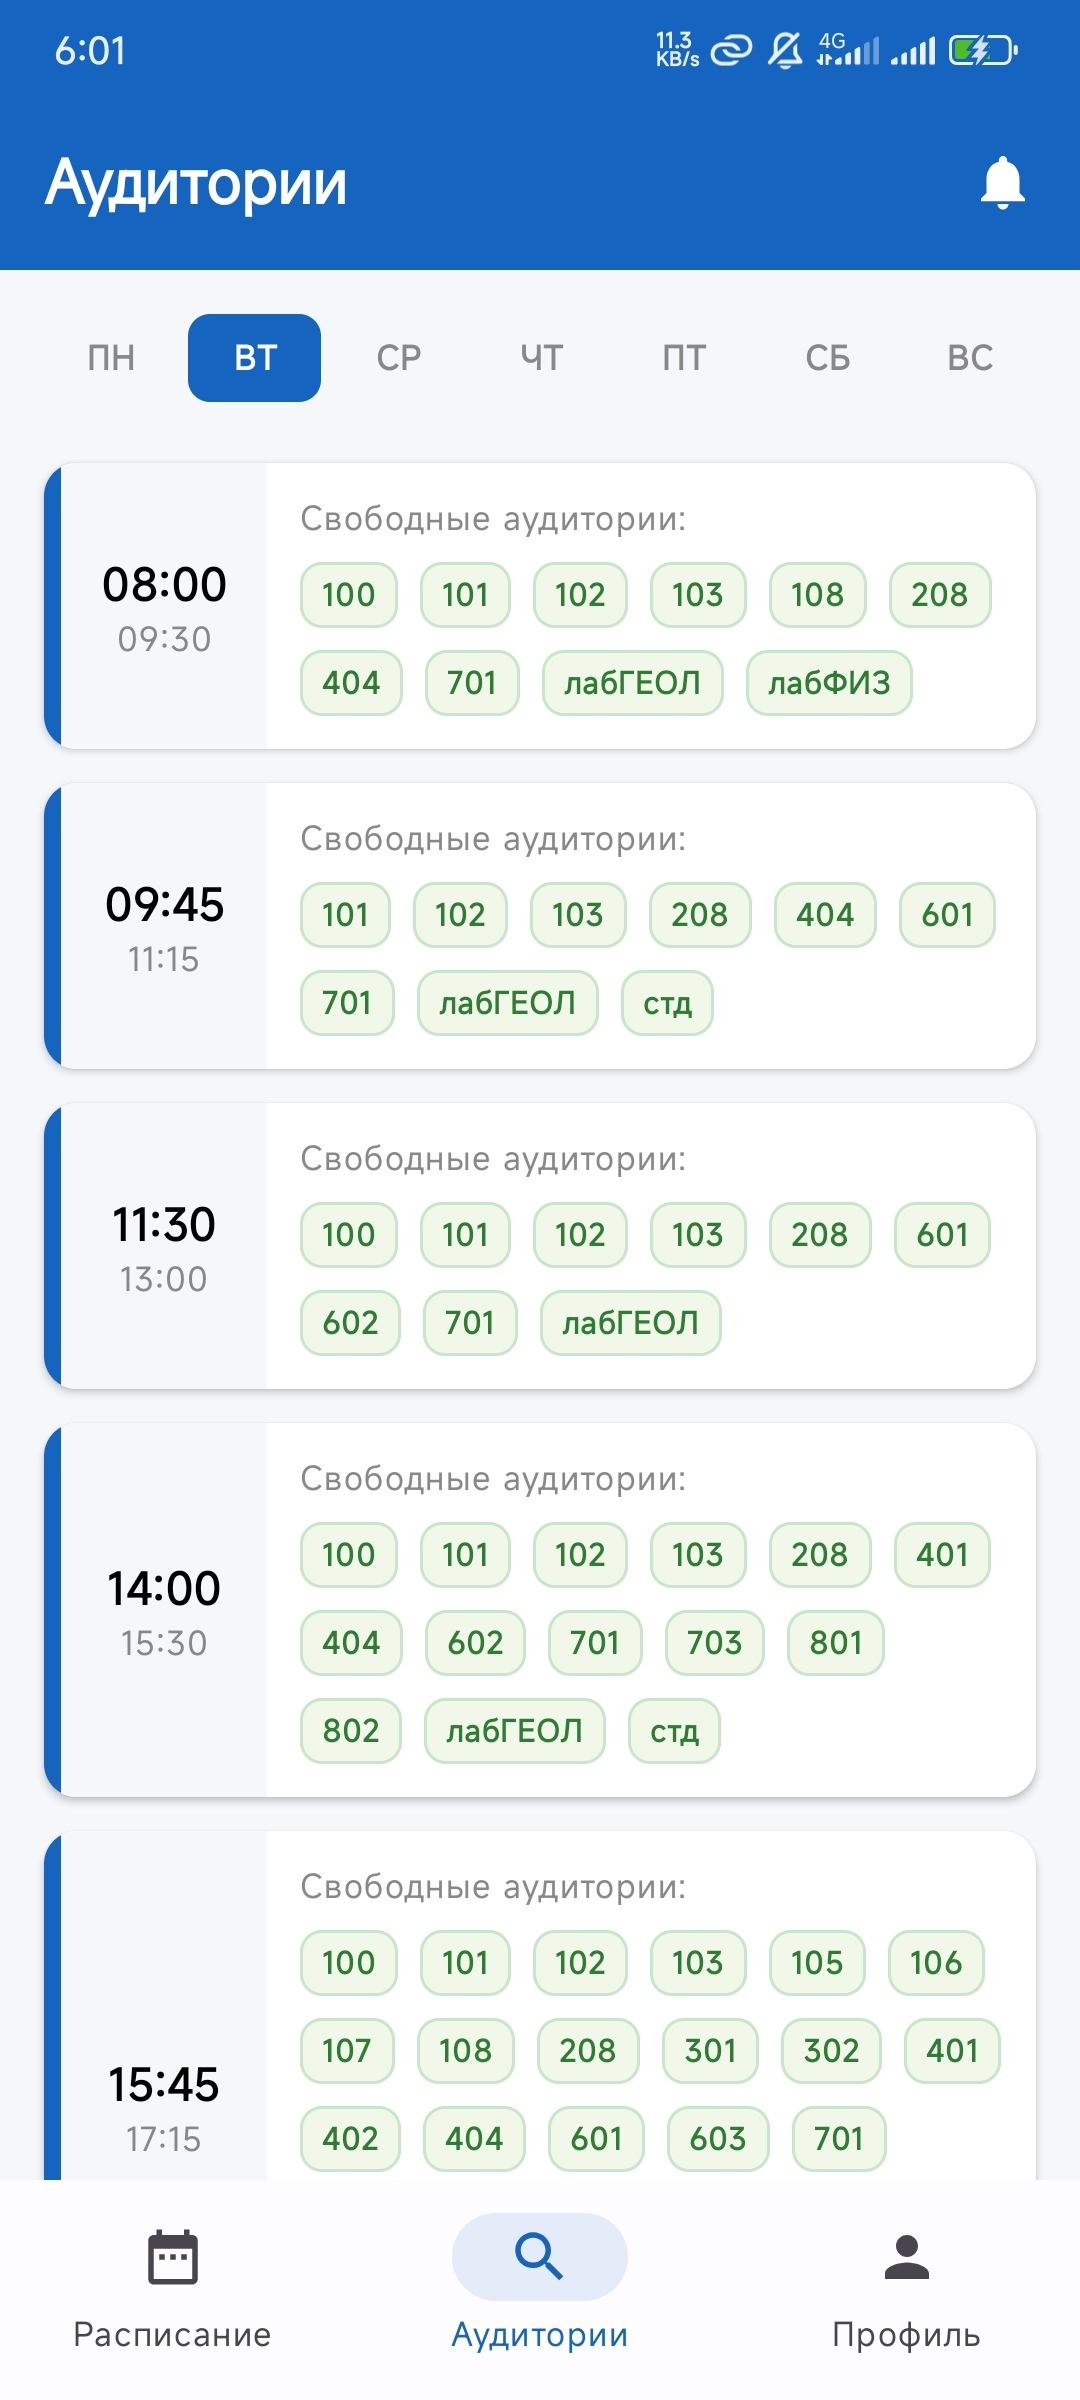
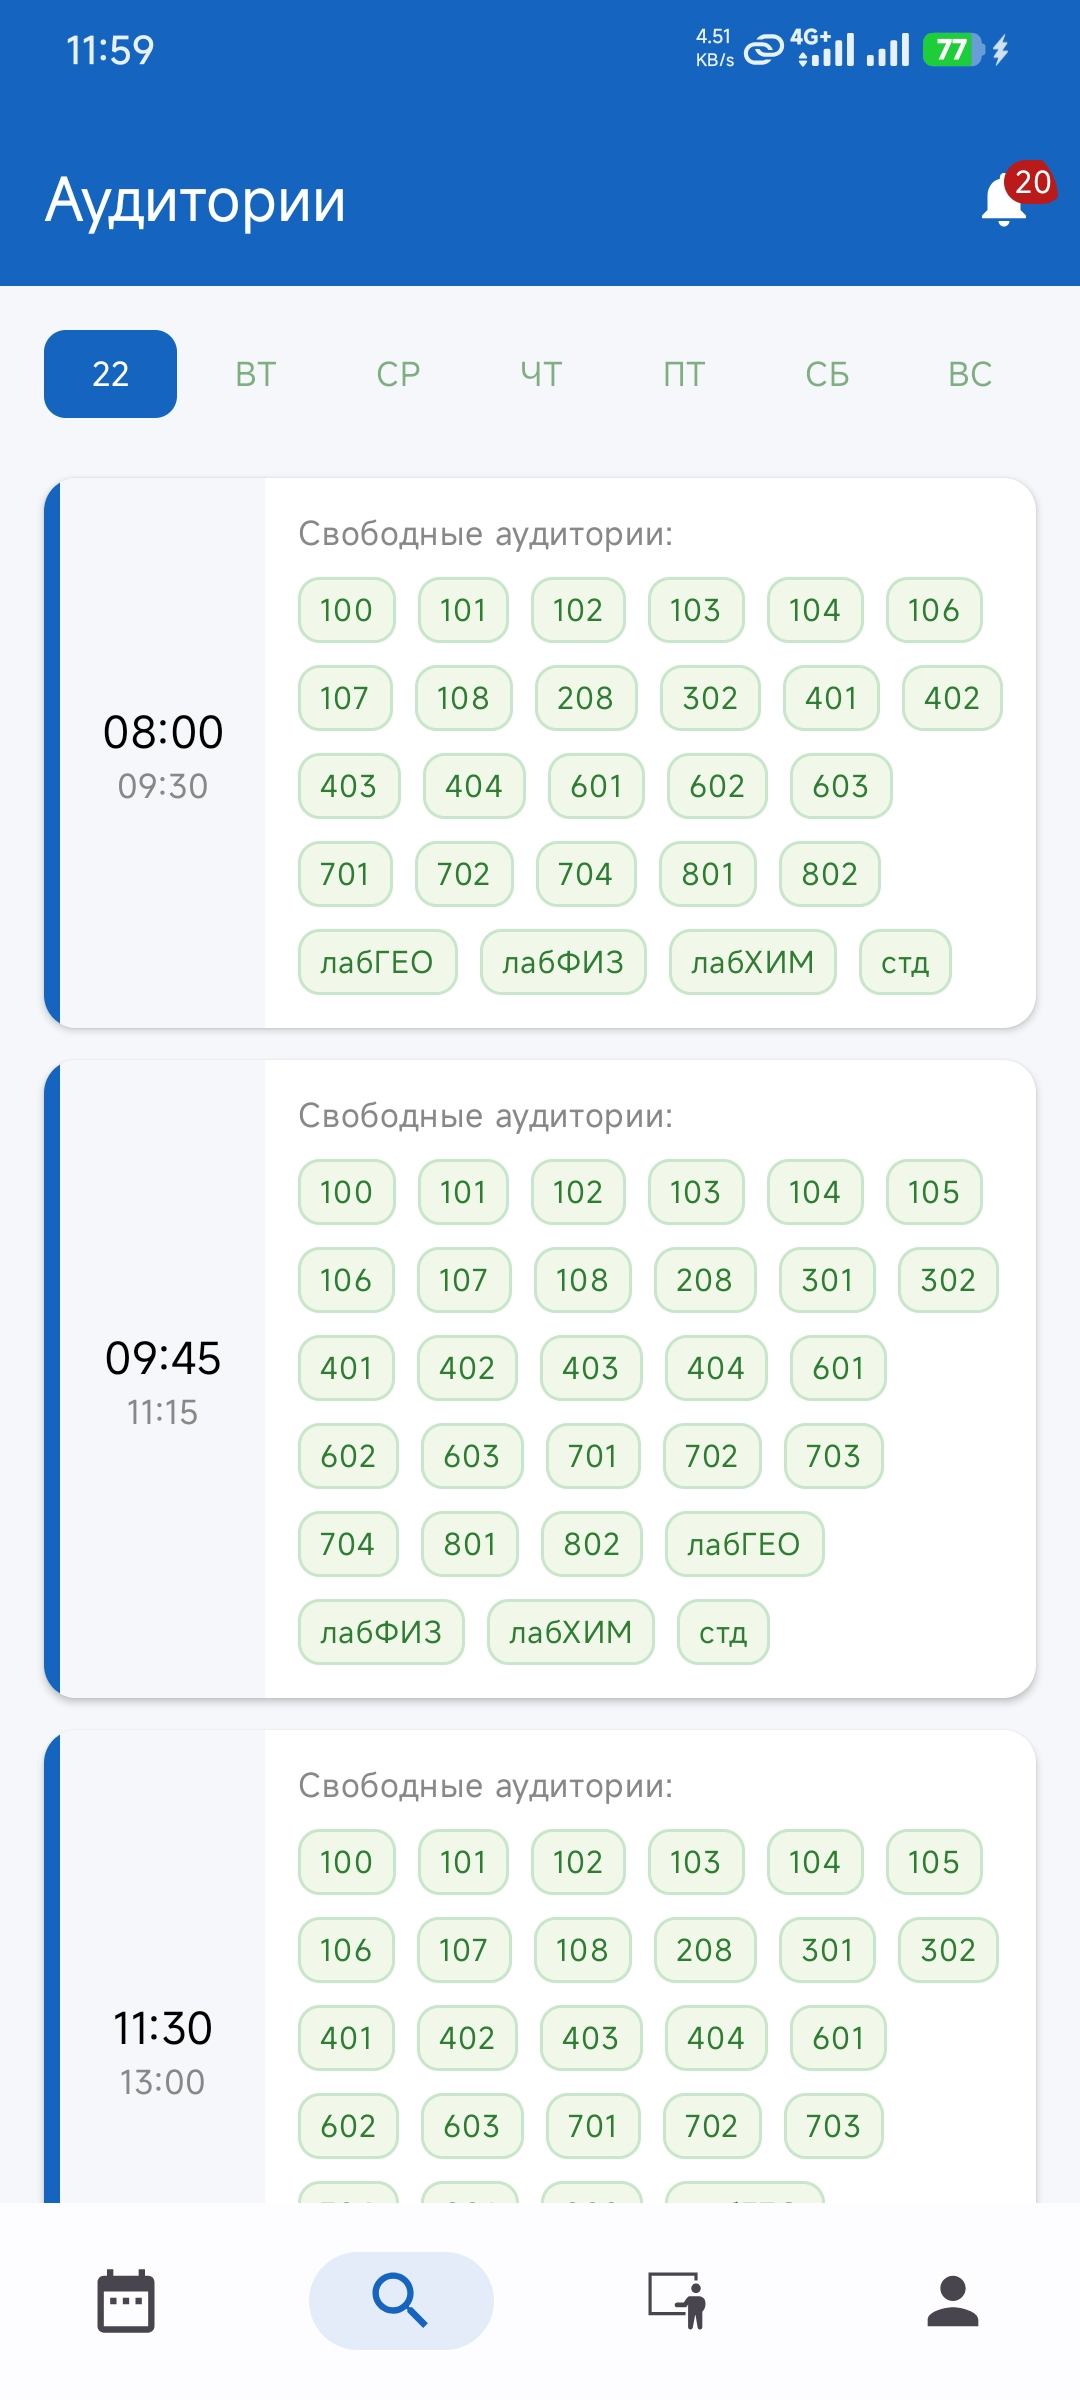
release(v2.1.0): bump version, update screenshots, and refine README

diff --git a/README.md b/README.md
@@ -33,9 +33,9 @@
 
 ## 📱 Screenshots
 
-|               Authentication               |                   Schedule                    |                   Free Rooms                   |                   Notifications                    |
-|:------------------------------------------:|:---------------------------------------------:|:----------------------------------------------:|:--------------------------------------------------:|
-| <img src="assets/login.jpg" width="250" /> | <img src="assets/schedule.jpg" width="250" /> | <img src="assets/freerooms.jpg" width="250" /> | <img src="assets/notifications.jpg" width="250" /> |
+|                   Schedule                    |                   Free Rooms                   |                   Teacher                    |                   Notifications                    |
+|:---------------------------------------------:|:----------------------------------------------:|:--------------------------------------------:|:--------------------------------------------------:|
+| <img src="assets/schedule.jpg" width="250" /> | <img src="assets/freerooms.jpg" width="250" /> | <img src="assets/teacher.jpg" width="250" /> | <img src="assets/notifications.jpg" width="250" /> |
 
 ## 🛠 Tech Stack
 
